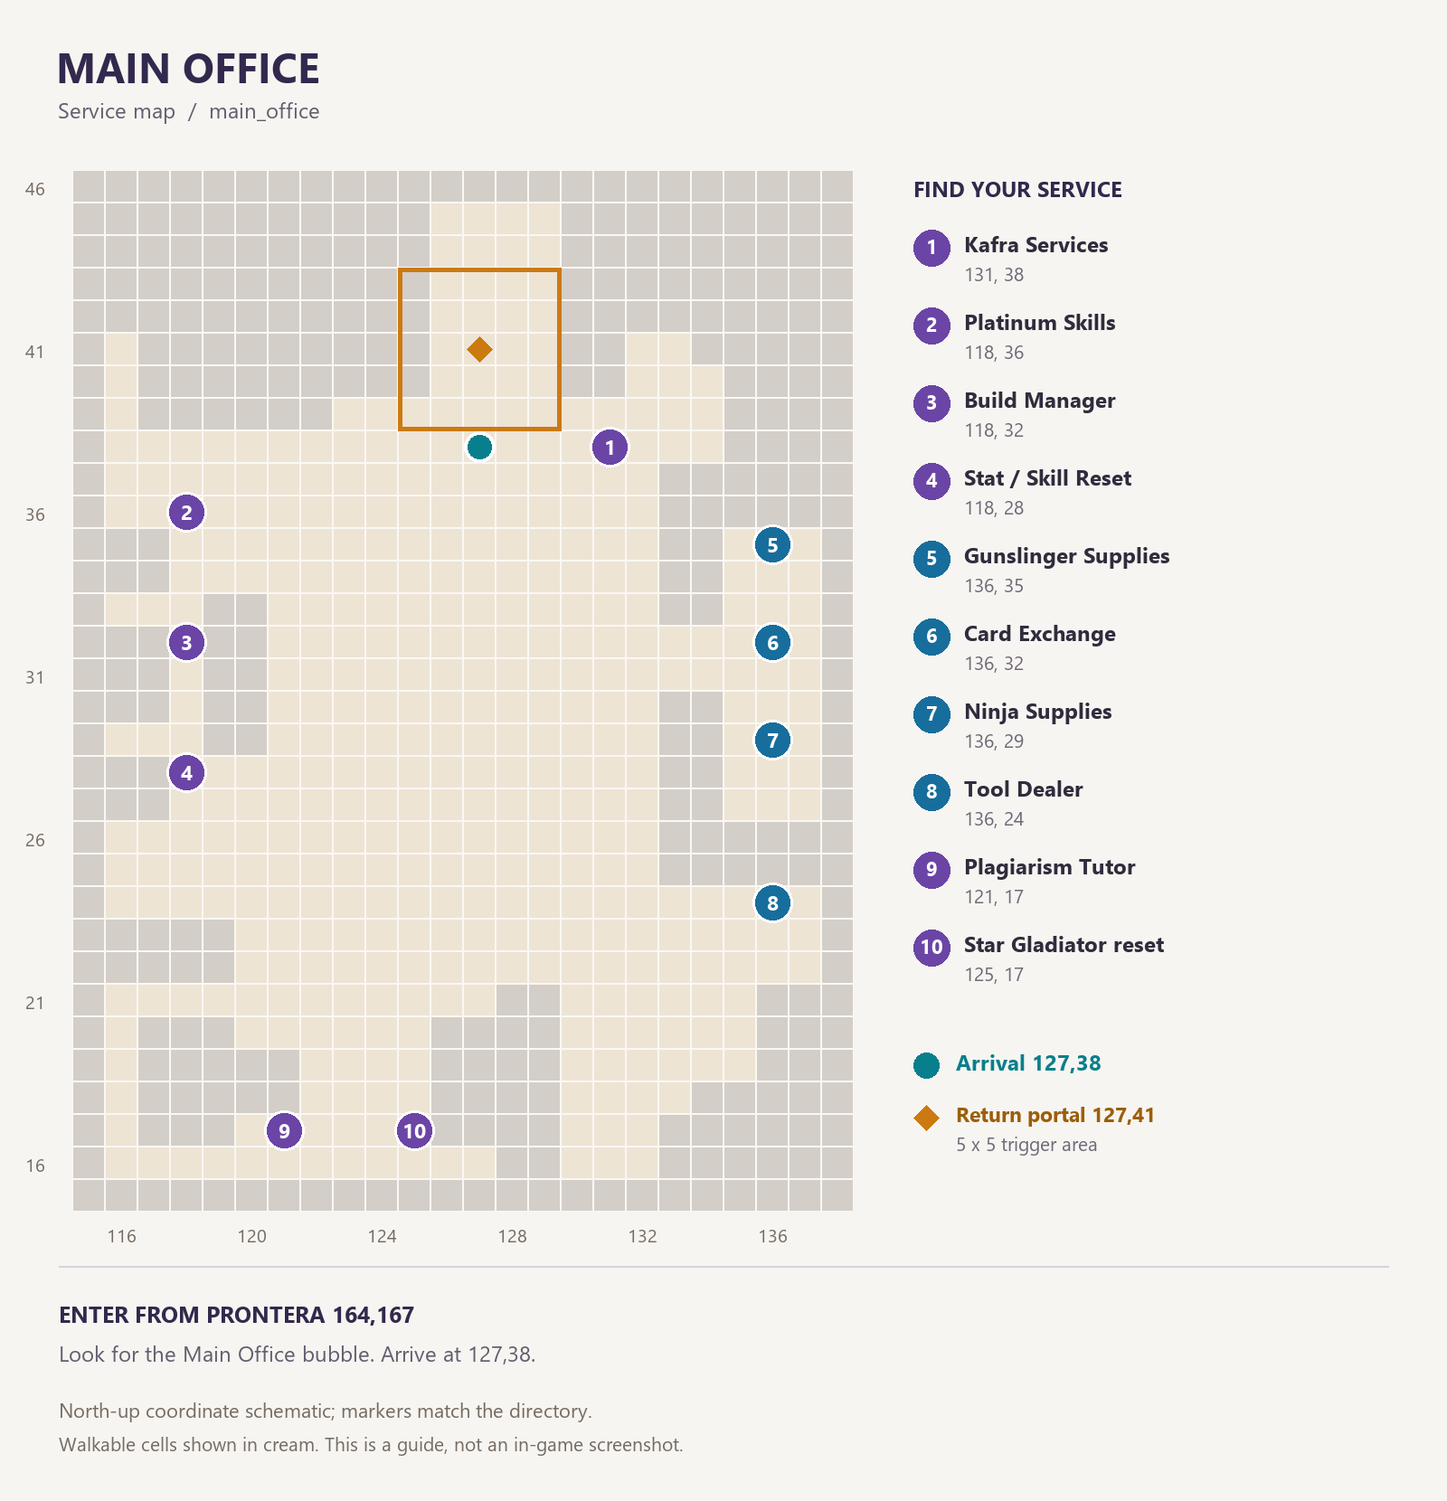
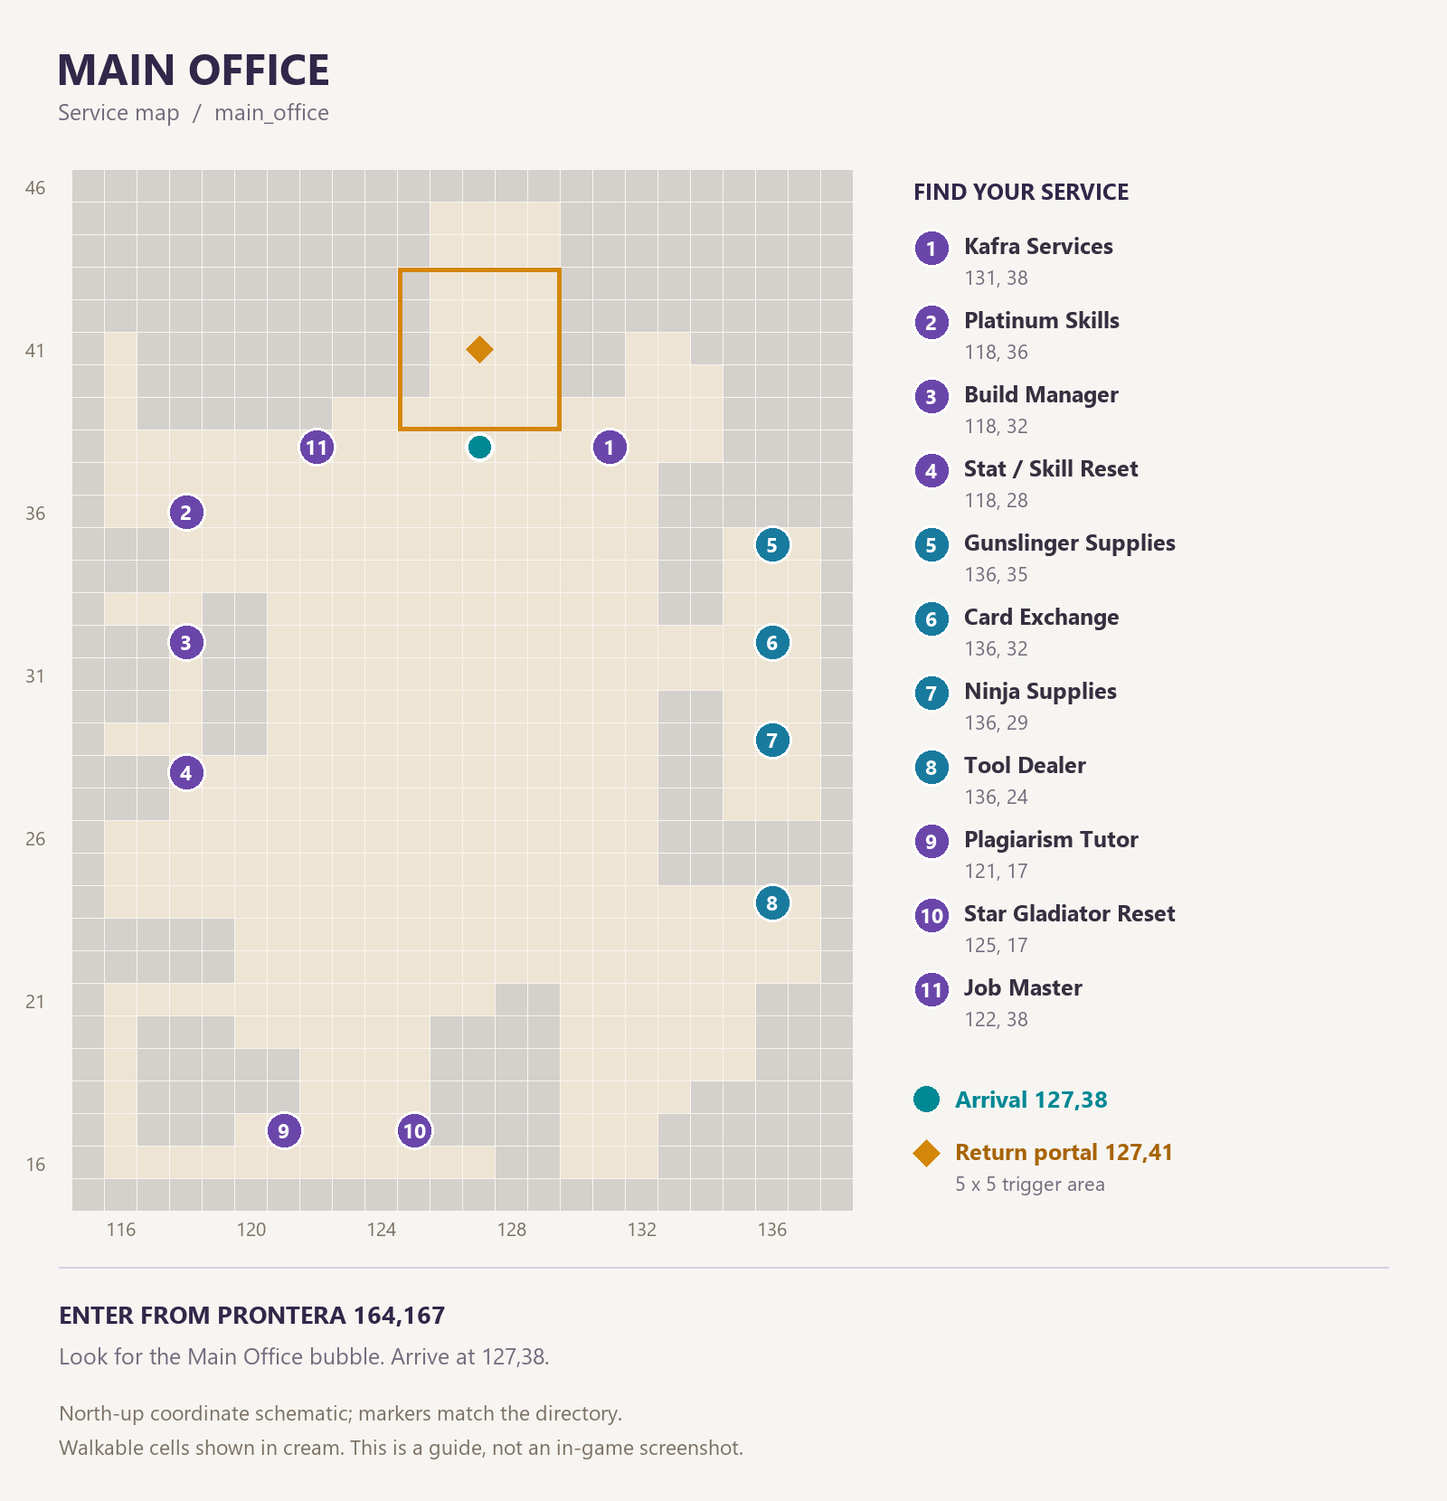
Refresh NPC locations and publish character services

diff --git a/hooks/publishing.py b/hooks/publishing.py
@@ -3,6 +3,7 @@ import re
 from mkdocs.exceptions import PluginError
 
 ICONS = {
+    "character-services.md": "\U0001f465",
     "biolabs4.md": "\U0001f9ec",
     "main-office.md": "\U0001f3e2",
     "card-removal.md": "\U0001fa84",

diff --git a/docs/character-services.md b/docs/character-services.md
@@ -1,0 +1,91 @@
+# Character Services
+
+Updated: **November 17, 2026**.
+
+Find job changes, appearance options and healing at the NPCs below. These locations match the current server scripts.
+
+## At a glance
+
+| NPC | Navigation | Service |
+| --- | --- | --- |
+| **Job Master** | `/navi main_office 122/38` | Free eligible job changes and rebirth |
+| **Stylist** | `/navi prt_in 43/114` | Free hairstyle, hair-color and clothing-color changes |
+| **Healer** | `/navi prontera 152/187` | Free HP and SP recovery |
+| **Prontera Guide** | `/navi prontera 157/190` | City directions and optional minimap markers |
+| **Smile Assistance** | `/navi prontera 141/228` | Mr. Smile mask exchange |
+
+## Job Master
+
+The Job Master is inside **[Main Office](main-office.md) at 122,38**, just west of the **127,38** landing. Enter Main Office from **Prontera 164,167** and look for the **Job Master** bubble.
+
+Job changes through this NPC are free. Available choices depend on your current class and progression.
+
+| Change | Current requirement |
+| --- | --- |
+| First job | Job Level **10** |
+| Second job | Job Level **40** or higher, with an eligible first class |
+| Super Novice | Base Level **45** and the applicable Novice job requirement |
+| Rebirth | An eligible class at Base Level **99**, Job Level **50**, and carried weight **500 or less** |
+
+Spend unused skill points and remove your cart, falcon or mount before proceeding. Transcendent progression follows the previous class path. Eligible platinum skills are granted automatically; the separate [Platinum Skill NPC](main-office.md#service-directory) handles its own class and custom unlocks.
+
+Third and advanced expanded classes are disabled. Baby Novices cannot change class, and baby characters cannot transcend. Use [Sister Elara](baby-characters.md) for independent baby conversion.
+
+## Stylist
+
+The Stylist is at **prt_in 43,114**, inside the **[Coin Exchange building](main-office.md#coin-exchange-building)**. Enter from **Prontera 133,183**, beneath the **Coin Exchange** bubble, and look for **Stylist** inside.
+
+All appearance changes are free. Choose **Hair style**, **Hair color** or **Clothing color**. The dialog shows the current ID and available range.
+
+- **Next / Previous** cycles through the available choices.
+- **Choose an ID** lets you enter a specific valid option.
+- **Restore original** returns to the look you had when you opened that category.
+- **Keep this look** closes the preview with your selected appearance.
+
+Previews apply immediately while browsing. If you want to undo a preview, choose **Restore original** before closing.
+
+### Available styles
+
+Human characters have **42 hairstyles (IDs 1-42)** and **nine hair colors (IDs 0-8)**, including the default hair color. Clothing colors depend on the character's class:
+
+| Class group | Clothing color IDs | Choices |
+| --- | --- | ---: |
+| Novice, High Novice and Baby Novice | **0-8** | 9 |
+| Super Novice/Super Baby, Taekwon, Star Gladiator, Soul Linker, Ninja, Gunslinger and corresponding baby classes | **0-7** | 8 |
+| First classes, Knight, Priest, Wizard, Blacksmith, Hunter, Assassin, Alchemist, Bard, Dancer and corresponding baby classes | **0-4** | 5 |
+| Crusader, Monk, Sage, Rogue and corresponding baby classes; transcendent second classes | **0-3** | 4 |
+
+The menu limits clothing colors to those available for your class. A color supported by your new class is retained through job changes and relogging; an unsupported clothing color resets to the default.
+
+## Healer
+
+Find the **Healer** at **Prontera 152,187**, marked with a **Healer** bubble.
+
+Click to restore **100% HP and SP**, for free. There is **no configured healing cooldown**. This is a recovery service; it does not grant Blessing or Increase AGI.
+
+Healing does not require your character to walk up against the NPC. After healing, you can continue moving normally.
+
+## Other Prontera NPCs
+
+### Prontera Guide
+
+The relocated **Prontera Guide** is at **Prontera 157,190**. Use the city-guide menu for standard city directions, enable location markers when offered, or choose **Remove Marks from Mini-Map** to clear them.
+
+### Smile Assistance
+
+Find **Smile Assistance** at **Prontera 141,228**. The Smile Girl exchanges the following items for **one Mr. Smile mask**:
+
+| Required item | Quantity |
+| --- | ---: |
+| Jellopy | 10 |
+| Fluff | 10 |
+| Clover | 10 |
+
+Choose **Construct Mr. Smile** after bringing all three materials. The exchange consumes the listed items; the NPC's other town copies retain their own locations.
+
+## Related guides
+
+- [Main Office service map and directory](main-office.md)
+- [Class changes](class-changes.md)
+- [Build Manager](build-manager.md)
+- [Baby Characters](baby-characters.md)

diff --git a/docs/main-office.md b/docs/main-office.md
@@ -2,7 +2,7 @@
 
 Updated: **November 17, 2026**.
 
-Prepare your next character build, unlock platinum skills, restock supplies and trade spare cards in one stop. **Main Office brings ten everyday services together**, with a service-name bubble above each NPC.
+Prepare your next character build, unlock platinum skills, restock supplies and trade spare cards in one stop. **Main Office brings eleven everyday services together**, with a service-name bubble above each NPC.
 
 !!! tip "Start at the Main Office doorway"
     Find the **Main Office** bubble at **Prontera 164,167**.
@@ -15,7 +15,7 @@ Prepare your next character build, unlock platinum skills, restock supplies and 
 
 ## Service map
 
-![Numbered Main Office service layout showing the landing, return portal and ten NPC positions](assets/images/main-office-layout.png){ width="1600" height="1660" loading="lazy" }
+![Numbered Main Office service layout showing the landing, return portal and eleven NPC positions](assets/images/main-office-layout.png){ width="1600" height="1660" loading="lazy" }
 
 *Coordinate schematic, with north at the top. The numbered markers match the service directory below.*
 
@@ -33,9 +33,11 @@ Prepare your next character build, unlock platinum skills, restock supplies and 
 | 8 | **Tool Dealer** / Enhanced Tool Dealer | `/navi main_office 136/24` | Buy the same [everyday-supply catalogue](dealers.md#enhanced-tool-dealers) offered by the existing town dealers. |
 | 9 | **Plagiarism Tutor** | `/navi main_office 121/17` | Copy eligible skills as a Rogue or Stalker for **25,000z** per valid lesson. Preserve must be off. |
 | 10 | **Star Gladiator Reset** / Salvia | `/navi main_office 125/17` | Reset Feeling maps or Hatred targets for **500,000z** per memory set. The other set is preserved; empty sets are not charged. |
+| 11 | **Job Master** | `/navi main_office 122/38` | Free eligible [job changes and rebirth](character-services.md#job-master), beside the arrival point. |
 
 ## Plan your visit
 
+- **Ready for your next job?** Job Master is beside the landing, west of Kafra.
 - **Changing your setup?** Visit Reset Girl and Build Manager on the west side, then restore your eligible platinum skills.
 - **Preparing to hunt?** Use Kafra storage, then pick up tools or class ammunition from the east-side dealers.
 - **Clearing spare cards?** Putty is between Gunslinger Supplies and Jackie.
@@ -57,6 +59,7 @@ The coin shops are in a **separate building**, entered at **Prontera 133,183**. 
 | --- | --- | --- |
 | **Costume Shop** / Gold Point Manager | `/navi prt_in 38/104` | Spend actual [hourly-reward Gold Coins](hourly-rewards.md) on costumes. |
 | **Vestige Coin Exchange** / Lydia | `/navi prt_in 38/108` | Spend [Vestige Coins](vestige-coins.md) on the [26-item reward catalogue](coin-exchange.md). |
+| **Stylist** | `/navi prt_in 43/114` | Free [hairstyle, hair-color and class-specific clothing-color previews](character-services.md#stylist). |
 | **Baby Conversion** / Sister Elara | `/navi prt_in 34/114` | Become an eligible [baby character](baby-characters.md) for **5,000,000z**, without adoption. |
 
 Click the top-right hourly timer to convert eligible points into Gold Coins. The timer does **not** open the costume shop.
@@ -66,6 +69,9 @@ Click the top-right hourly timer to convert eligible points into Gold Coins. The
 | Stop | Navigation | What to look for |
 | --- | --- | --- |
 | **Market** / Merchants Warp | `/navi prontera 164/174` | The **Market** bubble marks entry to [Market Street](vendor-system.md). Its Vending Helper offers a return to Main Office at **121,22**. |
+| **Healer** | `/navi prontera 152/187` | Free [HP/SP recovery](character-services.md#healer). |
+| **Prontera Guide** | `/navi prontera 157/190` | Standard [city directions and minimap markers](character-services.md#prontera-guide). |
+| **Smile Assistance** | `/navi prontera 141/228` | Exchange materials for [a Mr. Smile mask](character-services.md#smile-assistance). |
 | **Card Remover** / Wise Old Woman | `/navi prt_in 28/73` | [Remove cards from equipped items](card-removal.md). Read the costs and failure outcomes before confirming. |
 
 The Market entrance is outside Main Office, north of its Prontera doorway. The Card Remover is in the original refining building, rather than inside Main Office or the Coin Exchange building.

diff --git a/docs/updates/2026-11-17.md b/docs/updates/2026-11-17.md
@@ -15,17 +15,32 @@ The dungeon guide lists all monster tiers, base EXP, retained rewards and respaw
 
 ## Main Office
 
-The [Main Office guide](../main-office.md) now brings together current directions, a numbered service map and all ten office NPCs.
+The [Main Office guide](../main-office.md) now brings together current directions, a numbered service map and all eleven office NPCs.
 
 - Enter at **Prontera 164,167**, beneath the **Main Office** bubble; arrive at **main_office 127,38**.
 - Leave through the **5x5 return portal centered on 127,41**, which returns to **Prontera 162,167**. The outside entrance uses a **3x3** trigger.
-- Find Kafra Services, Platinum Skills, Build Manager, Reset Girl, Gunslinger Supplies, Putty, Jackie, Enhanced Tool Dealer, Plagiarism Tutor and Salvia inside.
+- Find Job Master, Kafra Services, Platinum Skills, Build Manager, Reset Girl, Gunslinger Supplies, Putty, Jackie, Enhanced Tool Dealer, Plagiarism Tutor and Salvia inside.
 - Service-name bubbles identify each NPC. Teleport and return items are disabled inside; use the doorway to leave.
+
+## Character services and Prontera moves
+
+The [Character Services guide](../character-services.md) now documents Job Master, Stylist and Healer:
+
+- **Job Master** is beside the Main Office landing at **122,38**; the service map now shows eleven office NPCs.
+- **Stylist** is inside the Coin Exchange building at **prt_in 43,114**, with 42 hairstyles, nine hair colors and class-specific clothing colors.
+- **Healer** is at **Prontera 152,187**, offering free HP/SP recovery.
+
+Also updated: **Prontera Guide at 157,190** and **Smile Assistance at 141,228**. Job requirements, appearance options, healing settings and the Mr. Smile material exchange are listed in the guide.
 
 ## Current NPC locations
 
 | Service | Current location |
 | --- | --- |
+| Job Master | `main_office 122,38` |
+| Stylist | `prt_in 43,114` |
+| Healer | `prontera 152,187` |
+| Prontera Guide | `prontera 157,190` |
+| Smile Assistance | `prontera 141,228` |
 | Build Manager | `main_office 118,32` |
 | Reset Girl | `main_office 118,28` |
 | Platinum Skill NPC | `main_office 118,36` |
@@ -40,6 +55,6 @@ The [Main Office guide](../main-office.md) now brings together current direction
 | Merchants Warp / Market | `prontera 164,174` |
 | Card Remover | `prt_in 28,73` |
 
-The **Coin Exchange** bubble at **Prontera 133,183** marks the separate building for the Costume Shop, Lydia and Sister Elara. The **Market** bubble at **Prontera 164,174** marks Market Street access.
+The **Coin Exchange** bubble at **Prontera 133,183** marks the separate building for the Costume Shop, Lydia, Stylist and Sister Elara. The **Market** bubble at **Prontera 164,174** marks Market Street access.
 
 The class, dealer, build, coin and hourly-reward guides now use these locations. [Card Removal](../card-removal.md) documents the separate removal service, its fees and its existing failure outcomes.

diff --git a/docs/index.md b/docs/index.md
@@ -32,7 +32,7 @@ hide:
 
 ## Visit Main Office
 
-**One stop for builds, platinum skills, supplies and card points.** Enter at **Prontera 164,167**, beneath the **Main Office** bubble, and use the numbered map to find all ten services.
+**One stop for builds, platinum skills, supplies and card points.** Enter at **Prontera 164,167**, beneath the **Main Office** bubble, and use the numbered map to find all eleven services.
 
 [Explore Main Office](main-office.md){ .md-button .md-button--primary }
 [Find the Coin Exchange building](main-office.md#coin-exchange-building){ .md-button }
@@ -40,6 +40,8 @@ hide:
 ## Latest update: November 17
 
 [Bio Labs 4](biolabs4.md) is open with Classic Pre-Renewal party balance, retuned monsters and a classic-only direct-drop pool.
+
+The [Character Services guide](character-services.md) now lists Job Master in Main Office, Stylist at **prt_in 43,114**, Healer at **Prontera 152,187**, and the relocated Prontera Guide and Smile Assistance.
 
 The [Main Office showcase](main-office.md) includes a service map, current NPC coordinates and directions to the Coin Exchange building, Market and [Card Remover](card-removal.md). The linked class, dealer, build and reward pages have been updated to match.
 
@@ -88,6 +90,7 @@ The [Main Office showcase](main-office.md) includes a service map, current NPC c
 | Looking for… | Go to |
 | --- | --- |
 | Main Office, service map and NPC locations | [Main Office](main-office.md) |
+| Job changes, appearance options, healing and city NPCs | [Character Services](character-services.md) |
 | Becoming a baby without adoption | [Baby Characters and Sister Elara](baby-characters.md) |
 | Save and reload stat/skill setups | [Build Manager](build-manager.md) |
 | Free platinum skills | [Platinum Skill NPC and other services](class-changes.md#related-npc-directory) |

diff --git a/docs/all-pages.md b/docs/all-pages.md
@@ -14,6 +14,7 @@ Browse every public guide, or use the topic tabs and search box.
 | [Card Drop Announcements](card-drop-announcements.md) | Actual-looter credit, card copies and Public chat visibility |
 | [Card exchange](card-exchange.md) | Account-wide card points and the illustrated 14-item reward catalogue |
 | [Card Removal](card-removal.md) | Equipped-item card removal, fees and failure outcomes |
+| [Character Services](character-services.md) | Job Master, Stylist, Healer, Prontera Guide and Smile Assistance |
 | [Class changes](class-changes.md) | Skill adjustments and platinum skills |
 | [Convenient dealers](dealers.md) | Supplies, prices and NPC locations |
 | [Fast storage](fast-storage.md) | Restock targets and all-unit Quick Store |
@@ -33,7 +34,7 @@ Browse every public guide, or use the topic tabs and search box.
 | [November 11, 2026](updates/2026-11-11.md) | Homunculus and pet commands, chat logging and pet-message preferences |
 | [November 13, 2026](updates/2026-11-13.md) | Vestige Rift identity, baby-character conversion and saved builds |
 | [November 16, 2026](updates/2026-11-16.md) | Hunting rewards, Area Loot, Mercy, refining and economy changes |
-| [November 17, 2026](updates/2026-11-17.md) | Main Office, current NPC locations and the Bio Labs 4 adaptation |
+| [November 17, 2026](updates/2026-11-17.md) | Main Office, character services, current NPC locations and the Bio Labs 4 adaptation |
 | [Personal settings](personal-settings.md) | Saved visual, sound and chat preferences |
 | [Quality of life](quality-of-life.md) | Recovery, mail, storage and other conveniences |
 | [Quest changes](quest-changes.md) | Quest retries, battlefield and ore splitting |

diff --git a/docs/getting-started.md b/docs/getting-started.md
@@ -10,9 +10,13 @@ Thinking of a baby character? Read [Baby Characters](baby-characters.md) before 
 
 ## Visit Main Office
 
-Head to **Prontera 164,167** and enter beneath the **Main Office** bubble. Kafra, platinum skills, build/reset services, ammunition suppliers and Putty's Card Exchange are inside. The [Main Office guide](main-office.md) includes a service map and every coordinate.
+Head to **Prontera 164,167** and enter beneath the **Main Office** bubble. Job Master, Kafra, platinum skills, build/reset services, ammunition suppliers and Putty's Card Exchange are inside. The [Main Office guide](main-office.md) includes a service map and every coordinate.
 
-The separate Coin Exchange building at **Prontera 133,183** houses the Costume Shop, Lydia and Sister Elara. The **Market** NPC is outside at **Prontera 164,174**.
+The separate Coin Exchange building at **Prontera 133,183** houses the Costume Shop, Lydia, Stylist and Sister Elara. The **Market** NPC is outside at **Prontera 164,174**.
+
+## Character services
+
+Use the [Character Services guide](character-services.md) to find **Job Master in Main Office**, the **Stylist in the Coin Exchange building**, and the **Healer in Prontera**. It also lists the relocated Prontera Guide and Smile Assistance NPCs.
 
 ## Set up your preferences
 

diff --git a/docs/features.md b/docs/features.md
@@ -4,7 +4,7 @@ Explore the systems and adjustments available on Vestige Rift. Guides describe o
 
 ## Features
 
-- [Main Office](main-office.md): a numbered service map, ten office NPCs and directions to coin shops and the Market.
+- [Main Office](main-office.md): a numbered service map, eleven office NPCs and directions to coin shops and the Market.
 
 - [Vestige Coin System](vestige-coins.md): tradable monster-drop currency with fixed chances and species exceptions.
 - [Mercy System](mercy-system.md): an automatic normal-monster card guarantee after 5,000 cardless kills.
@@ -37,6 +37,7 @@ Explore the systems and adjustments available on Vestige Rift. Guides describe o
 
 | System | What it provides |
 | --- | --- |
+| [Character Services](character-services.md) | Job Master, Stylist, Healer and relocated Prontera city NPCs |
 | [Attendance rewards](attendance.md) | A repeating 20-claim schedule, limited to one claim per account per Philippine day |
 | [Hourly rewards](hourly-rewards.md) | Online points, Gold Coin conversion and a costume exchange shop |
 | [Convenient dealers](dealers.md) | Expanded catalogues at original Tool/Pet dealer locations and dedicated ammunition suppliers |

diff --git a/docs/updates.md b/docs/updates.md
@@ -10,9 +10,10 @@ Dated notes record changes to the game server and this handbook. For complete cu
 
 - [Bio Labs 4](biolabs4.md): classic 99/70 party balance, 196 regular spawns, restored access, retuned elites/MVPs and classic-only direct drops.
 
-- A [Main Office guide](main-office.md) with entrance directions, a numbered service map and all ten NPC locations.
+- A [Main Office guide](main-office.md) with entrance directions, a numbered service map and all eleven NPC locations.
 - Updated directions for the [Coin Exchange building](main-office.md#coin-exchange-building), [Market entrance](vendor-system.md#market-street) and [Card Remover](card-removal.md).
 - Current coordinates throughout the class, dealer, build and reward guides.
+- [Character Services](character-services.md): Job Master at **Main Office 122,38**, Stylist at **prt_in 43,114**, Healer at **Prontera 152,187**, Prontera Guide at **157,190** and Smile Assistance at **141,228**. The office map now includes Job Master.
 
 [Read the November 17 update](updates/2026-11-17.md).
 

diff --git a/docs/class-changes.md b/docs/class-changes.md
@@ -361,6 +361,9 @@ Most class services are inside **[Main Office](main-office.md)**, entered at **P
 | NPC | Location | Service |
 | --- | --- | --- |
 | Kafra Employee | `main_office 131,38` | Save, personal storage, guild storage, Universal Rental and platinum skills. |
+| Job Master | `main_office 122,38` | [Eligible job changes and rebirth](character-services.md#job-master). |
+| Stylist | `prt_in 43,114` | [Free appearance previews](character-services.md#stylist). |
+| Healer | `prontera 152,187` | [Free HP/SP recovery](character-services.md#healer). |
 | Build Manager | `main_office 118,32` | [Saved stat and skill builds](build-manager.md). |
 | Reset Girl | `main_office 118,28` | Reset stats or skills for 5,000z each; both for 9,000z. |
 | Platinum Skill NPC | `main_office 118,36` | Free eligible platinum skills, including Change Cart 2, Super Novice skills and Madness Break; restores applicable existing unlocks. |
